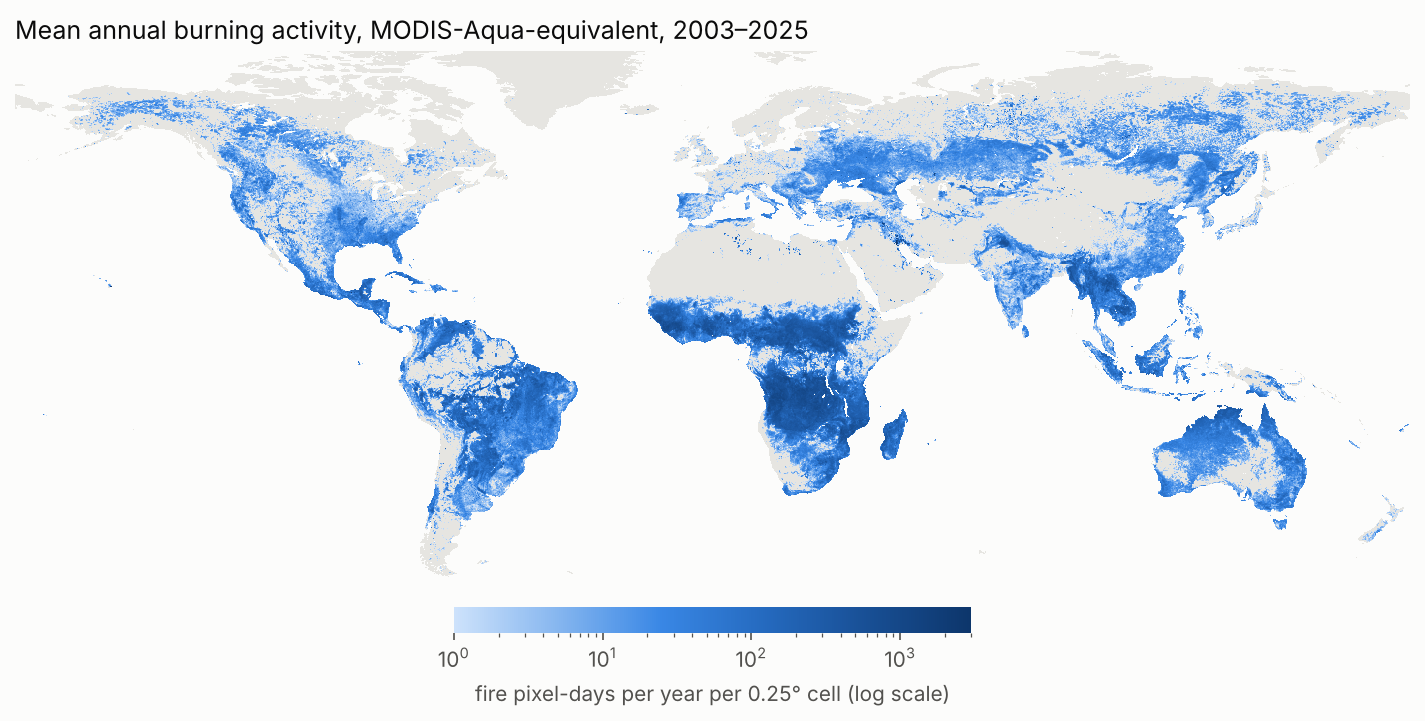
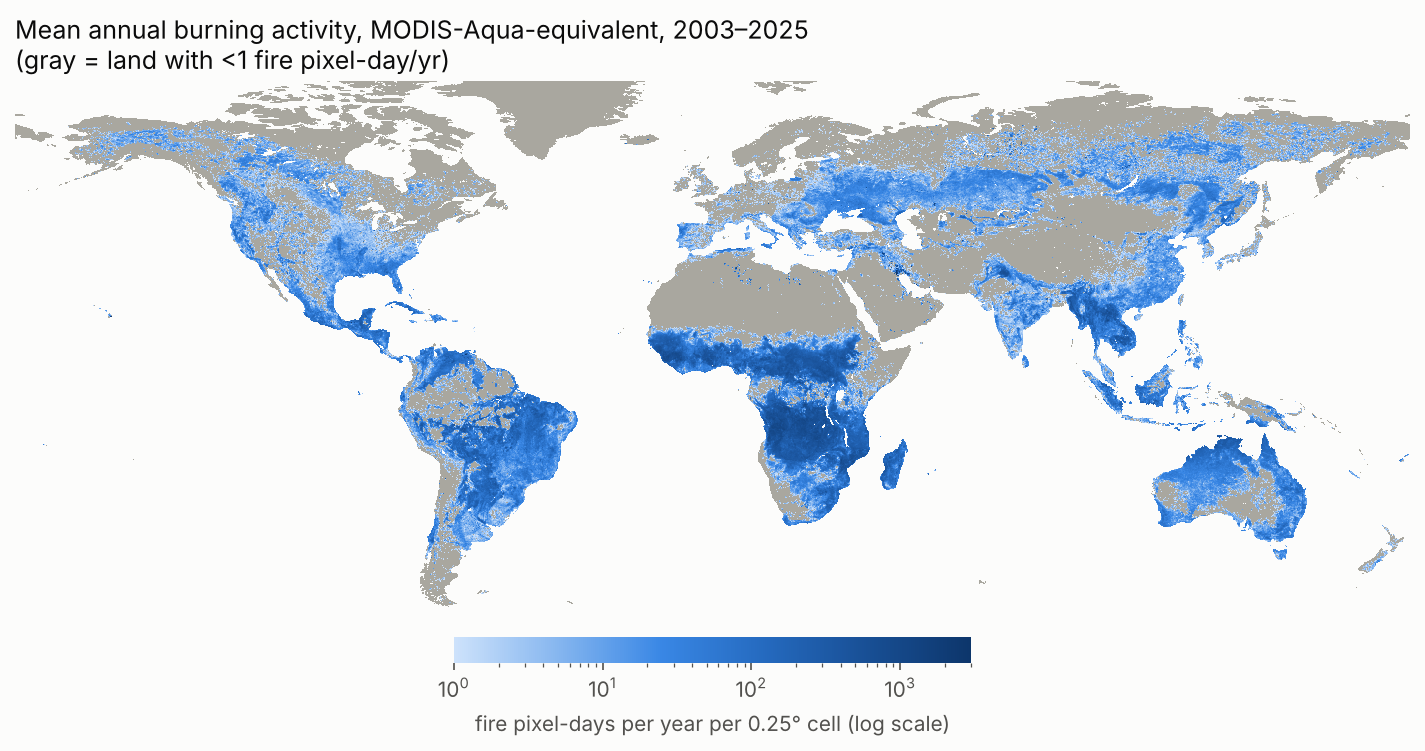
Results: reduced model v2 matches v1 and avoids the uncalibrated GEOS-5 fire-weather input; v2 is the product; figures from v2; figure script
Claude-Session: https://claude.ai/code/session_01XpQgjvN1hUH5Gj1GBywKWK

Changed region(s): [[0.0, 0.0305, 0.9881, 0.9154], [0.3396, 0.9459, 0.6793, 0.9764], [0.9572, 0.7018, 0.9881, 0.7628]]

diff --git a/scripts/make_figures.py b/scripts/make_figures.py
@@ -1,0 +1,56 @@
+"""Paper/README figures from a calendar build: peak month map, annual activity map, global monthly series.
+
+    python scripts/make_figures.py v2 [CACHE_DIR]      # needs out/.../calendar_<tag>, harmonized_<tag>, and pred_aqua_<tag> in CACHE_DIR
+Writes docs/figures/*.png.
+"""
+import os, sys
+from pathlib import Path
+import pandas as pd, numpy as np, matplotlib
+matplotlib.use("Agg"); import matplotlib.pyplot as plt
+from matplotlib.colors import LogNorm, LinearSegmentedColormap
+ROOT=Path(__file__).resolve().parent.parent
+tag=sys.argv[1]; R=ROOT/"out/features/v2/ll0p25"
+CACHE=Path(sys.argv[2]) if len(sys.argv)>2 else ROOT/"cache"
+OUT=ROOT/"docs/figures"; OUT.mkdir(parents=True,exist_ok=True); os.chdir(OUT)
+plt.rcParams.update({"font.size":10,"axes.edgecolor":"#52514e","xtick.color":"#52514e","ytick.color":"#52514e","figure.facecolor":"#fcfcfb","axes.facecolor":"#fcfcfb"})
+c=pd.read_parquet(f"{R}/calendar_{tag}/climatology.parquet"); iy,ix=np.divmod(c.cell.to_numpy(),1440)
+def raster(v):
+    a=np.full((720,1440),np.nan); a[iy,ix]=v; return a
+land=raster(np.ones(len(c))); act=c.annual_mean.to_numpy()>=1; gray=LinearSegmentedColormap.from_list("l",["#a9a79f","#a9a79f"])
+def mapfig(arr,cmap,norm,title,fn,cbfmt):
+    fig,ax=plt.subplots(figsize=(12,5.6))
+    ax.imshow(land,origin="lower",extent=[-180,180,-90,90],cmap=gray,interpolation="nearest")
+    im=ax.imshow(arr,origin="lower",extent=[-180,180,-90,90],cmap=cmap,interpolation="nearest",**norm)
+    ax.set_ylim(-60,80); ax.set_xticks([]); ax.set_yticks([]); [s.set_visible(False) for s in ax.spines.values()]
+    cb=fig.colorbar(im,ax=ax,orientation="horizontal",fraction=0.04,pad=0.02); cb.outline.set_visible(False); cbfmt(cb)
+    ax.set_title(title,loc="left",color="#0b0b0b"); fig.savefig(fn,dpi=150,bbox_inches="tight"); plt.close()
+def months(cb):
+    cb.set_ticks(range(1,13)); cb.ax.set_xticklabels(["Jan","Feb","Mar","Apr","May","Jun","Jul","Aug","Sep","Oct","Nov","Dec"])
+mapfig(raster(np.where(act&~c.persistent.to_numpy(),c.peak_month.to_numpy(),np.nan)),"twilight_shifted",dict(vmin=0.5,vmax=12.5),
+  "Peak burning month, MODIS-Aqua-equivalent record 2003–2025\n(gray = land with <1 fire pixel-day/yr; gas flares and other steady sources left out)","peak_month_map.png",months)
+blues=LinearSegmentedColormap.from_list("b",["#cde2fb","#86b6ef","#3987e5","#256abf","#184f95","#0d366b"])
+mapfig(raster(np.where(act,c.annual_mean.to_numpy(),np.nan)),blues,dict(norm=LogNorm(1,3000)),"Mean annual burning activity, MODIS-Aqua-equivalent, 2003–2025\n(gray = land with <1 fire pixel-day/yr)","annual_mean_map.png",
+  lambda cb: cb.set_label("fire pixel-days per year per 0.25° cell (log scale)",color="#52514e"))
+obs=[];mod=[];drift=[]
+for y in range(2002,2027):
+    h=pd.read_parquet(f"{R}/harmonized_{tag}/{y}.parquet"); obs.append(h[h.source=="aqua_obs"].groupby("ym").fire_pd.sum())
+for y in range(2012,2027):
+    p=pd.read_parquet(CACHE/f"pred_aqua_{tag}"/f"{y}.parquet",columns=["ym","pred_aqua_equiv","pred_from_j","a_fire","a_ok"])
+    v=np.where((p.ym>=202611)&p.pred_from_j.notna(),p.pred_from_j,p.pred_aqua_equiv); mod.append(pd.Series(v).groupby(p.ym.values).sum())
+    q=p[(p.ym>202301)&(p.ym<202611)&p.a_ok]; drift.append(q.groupby("ym").a_fire.sum())
+def ts(parts):
+    s=pd.concat(parts); s=s[~s.index.duplicated()]; s.index=pd.to_datetime((s.index*100+1).astype(str)); return s/1e3
+O,M,D=ts(obs),ts(mod),ts(drift); M=M[M.index<"2026-11-01"]
+fig,ax=plt.subplots(figsize=(12,4.4))
+ax.axvspan(pd.Timestamp("2023-02-01"),pd.Timestamp("2026-11-01"),color="#f0efec",zorder=0)
+ax.plot(O.index,O.values,color="#2a78d6",lw=1.6,label="Aqua observed (in-spec orbit)")
+ax.plot(D.index,D.values,color="#2a78d6",lw=1.6,ls=(0,(3,2)),label="Aqua observed (drifting orbit)")
+ax.plot(M.index,M.values,color="#eb6834",lw=1.6,label="Model from VIIRS")
+ax.set_ylim(0,1350); ax.text(pd.Timestamp("2023-03-01"),1320,"Aqua off its\n13:30 orbit",color="#52514e",va="top",fontsize=9)
+ax.set_ylabel("thousand fire pixel-days / month"); ax.grid(axis="y",color="#e6e5e1",lw=0.8); ax.set_axisbelow(True)
+for s in ("top","right"): ax.spines[s].set_visible(False)
+ax.legend(frameon=False,loc="upper center",bbox_to_anchor=(0.5,-0.08),ncol=3)
+ax.set_title("Global land burning in MODIS-Aqua terms, 2002 – Oct 2026",loc="left",color="#0b0b0b")
+fig.savefig("global_monthly.png",dpi=150,bbox_inches="tight"); plt.close()
+ov=pd.concat([O.rename("o"),M.rename("m")],axis=1).dropna(); ov=ov[ov.index<="2023-01-01"]
+print("overlap",len(ov),"corr",round(np.corrcoef(ov.o,ov.m)[0,1],4),"ratio",round(ov.m.sum()/ov.o.sum(),4),"median abs %",round(float((100*abs(ov.m-ov.o)/ov.o).median()),2))

diff --git a/docs/RESULTS.md b/docs/RESULTS.md
@@ -1,7 +1,9 @@
-# Results v1 — VIIRS → MODIS-Aqua-equivalent fire record (2026-11-15)
+# Results — VIIRS → MODIS-Aqua-equivalent fire record (2026-11-15)
+
+**Product model: v2** (LightGBM without fire weather and phenology). v1 kept for comparison.
 
 All outputs are in R2 under `features/v2/ll0p25/`. Code: training table 615375f, training and
-scoring 98acc60..66d4582, calendar 90da87a (see `git log`).
+scoring 98acc60..66d4582, calendar 90da87a (see `git log`). Website/product files: `calendar_v2/`, `harmonized_v2/`, `pred_aqua_v2/`.
 
 ![Global land burning in MODIS-Aqua terms](figures/global_monthly.png)
 
@@ -53,9 +55,26 @@ Peak-month agreement is measured on the 66,625 cells with ≥ 20 Aqua fires in 2
 | phenology (VNP22C2) | −0.02 % |
 | persistent-source flag | +0.05 % |
 
-Fire weather and phenology add nothing. Both also cause problems after MODIS ends: GFWED switches to GEOS-5, which needs calibrating to MERRA-2, and phenology has no NOAA-20 version. They are therefore dropped in the reduced model v2 (`--drop-groups fire_weather,phenology`).
+Fire weather and phenology add nothing. Both also cause problems after MODIS ends: GFWED switches to GEOS-5, which needs calibrating to MERRA-2, and phenology has no NOAA-20 version. They are therefore dropped in the reduced model v2 (`--drop-groups fire_weather,phenology`), which is the product (see below).
 
-## Final model and the harmonized record
+## Reduced model v2 (the product)
+v2 is the same LightGBM without the fire-weather (GFWED) and phenology (VNP22C2) groups.
+Both groups have availability problems after MODIS ends.
+
+| | v1 (all inputs) | v2 (reduced) |
+|---|---|---|
+| CV deviance | 0.968 ± 0.053 | 0.968 ± 0.054 |
+| Back-test deviance | 0.908 | 0.908 |
+| Back-test block-month deviance | 17.4 | 17.6 |
+| Back-test peak month exact / ±1 | 74.3 % / 89.3 % | 74.3 % / 89.3 % |
+
+The per-fold difference is within ±0.005. Peak month is identical in 99.5 % of active cells.
+
+The two models differ only where the fire-weather input changes source. From May 2026 GFWED is GEOS-5, which reads ~22 % lower than MERRA-2 and was not yet calibrated. There, v1's predictions drop: v2/v1 = 1.015 in 2024 and 1.030 in 2026. Dropping the group removes this artifact at no cost in accuracy. v2 is therefore the product model.
+
+v2 against observed Aqua over 2012-01..2023-01: global monthly correlation 0.992, total −0.5 %, median monthly difference 1.4 %. The calendar from v2 has 123,562 active cells, and its activity-weighted trend is −0.77 % per year.
+
+## Final model and the harmonized record (v1 numbers; v2 above)
 - **Final model:** model 5, refit on all training rows. It predicts every cell-month 2012–2026 from S-NPP, using NOAA-20 when S-NPP is missing or flagged, and as the main source from 2026-11, when S-NPP stopped.
 - **Agreement with observed Aqua** over 2012-01..2023-01 (133 months): global monthly correlation 0.991; total −0.6 %; median monthly difference 1.2 %.
 - **NOAA-20 vs S-NPP:** predictions from each agree within 0.2–1.4 % per year.

diff --git a/README.md b/README.md
@@ -48,7 +48,8 @@ python scripts/train.py --stage cv,backtest,ablation --threads 60 --tag v1 --upl
 python scripts/train.py --stage final --threads 20 --tag v1 --upload
 python scripts/train.py --stage cv,backtest,final --drop-groups fire_weather,phenology --tag v2 --upload  # reduced model
 # 5. harmonized 2002-2026 record + burning calendar (+ CSV for the website)
-python scripts/build_calendar.py --pred-tag v1 --upload
+python scripts/build_calendar.py --pred-tag v2 --upload        # v2 = product model
+python scripts/make_figures.py v2                                # docs/figures
 # 6. shared benchmark for comparing any other model (e.g. a CNN) on the same rows
 python scripts/score_predictions.py export --years 2019-2021 --out benchmark_2019_2021.parquet
 python scripts/score_predictions.py score --pred my_preds.parquet --name cnn
